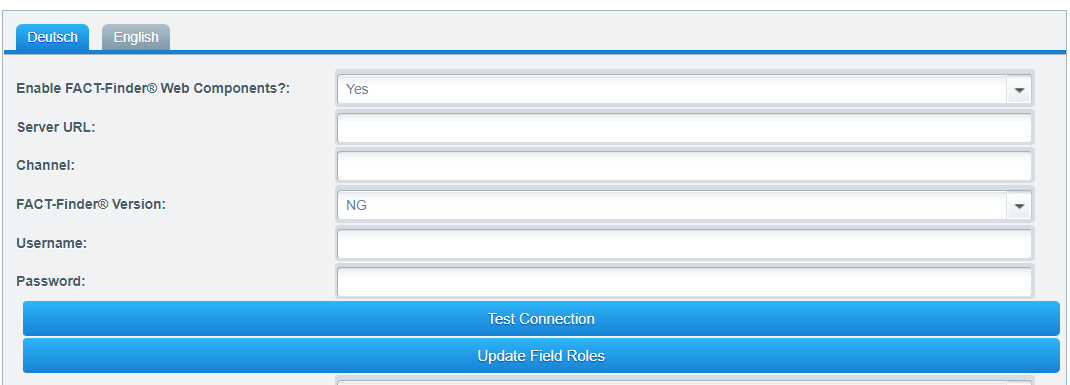
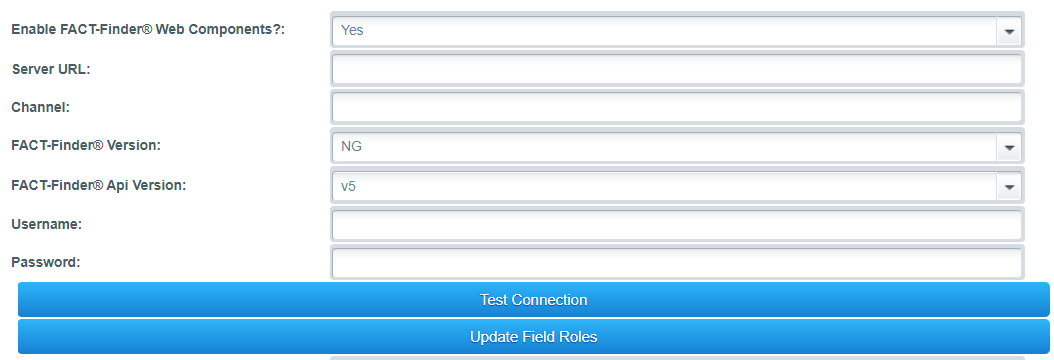
FFWEB-2628: api version switch

diff --git a/Components/Service/UpdateFieldRolesService.php b/Components/Service/UpdateFieldRolesService.php
@@ -58,7 +58,7 @@ class UpdateFieldRolesService
         $shops          = $shopRepository->findAll();
         foreach ($shops as $shop) {
             $scopedConfig = $this->configReader->getByPluginName($this->pluginName, $shop);
-            $endpoint     = $this->getEndpoint($this->configuration->getServerUrl(), $scopedConfig['ffChannel']);
+            $endpoint     = $this->getEndpoint($this->configuration->getServerUrl(), $scopedConfig['ffChannel'], $this->configuration->getApiVersion());
             $response     = $this->client->get(
                 "$endpoint?" . http_build_query(['query' => '*']),
                 [
@@ -77,9 +77,9 @@ class UpdateFieldRolesService
         }
     }
 
-    private function getEndpoint(string $url, string $channel): string
+    private function getEndpoint(string $url, string $channel, string $apiVersion): string
     {
-        return sprintf('%s/rest/v5/search/%s', rtrim($url, '/'), $channel);
+        return sprintf('%s/rest/%s/search/%s', rtrim($url, '/'), $apiVersion, $channel);
     }
 
     private function getPlugin(): Plugin

diff --git a/Components/Service/TestConnectionService.php b/Components/Service/TestConnectionService.php
@@ -24,9 +24,9 @@ class TestConnectionService
     /**
      * @throws RequestException
      */
-    public function execute(string $url, string $channel, Credentials $credentials): void
+    public function execute(string $url, string $channel, string $apiVersion, Credentials $credentials): void
     {
-        $endpoint = sprintf('%s/rest/v5/search/%s', rtrim($url, '/'), $channel);
+        $endpoint = sprintf('%s/rest/%s/search/%s', rtrim($url, '/'), $apiVersion, $channel);
         $this->client->get($endpoint . '?' . http_build_query(['query' => $this->apiQuery]), [
             'Accept'        => 'application/json',
             'Authorization' => $credentials->__toString(),

diff --git a/Controllers/Backend/Factfinder.php b/Controllers/Backend/Factfinder.php
@@ -52,7 +52,7 @@ class Shopware_Controllers_Backend_Factfinder extends \Enlight_Controller_Action
         $message        = $this->__('connectionEstablished');
 
         try {
-            $testConnection->execute($params->getServerUrl(), $params->getChannel(), $params->getCredentials());
+            $testConnection->execute($params->getServerUrl(), $params->getChannel(), $params->getApiVersion(), $params->getCredentials());
         } catch (RequestException $e) {
             $message = json_decode((string) $e->getBody(), true)['errorDescription'] ?? $e->getMessage();
         }

diff --git a/Components/Configuration.php b/Components/Configuration.php
@@ -36,6 +36,11 @@ class Configuration
         return $this->pluginConfig['ffChannel'] ?? '';
     }
 
+    public function getApiVersion(): string
+    {
+        return $this->pluginConfig['ffApiVersion'] ?? 'v5';
+    }
+
     public function getFieldRoles(): array
     {
         $default = '{"brand":"Brand","campaignProductNumber":"ProductNumber","deeplink":"Deeplink","description":"Description","displayProductNumber":"ProductNumber","ean":"EAN","imageUrl":"ImageUrl","masterArticleNumber":"Master","price":"Price","productName":"Name","trackingProductNumber":"ProductNumber"}';

diff --git a/Components/Service/PushImportService.php b/Components/Service/PushImportService.php
@@ -76,6 +76,10 @@ class PushImportService
 
     private function getBaseEndpoint(): string
     {
-        return $this->configuration->getServerUrl() . '/rest/v5/import/';
+        return sprintf(
+            '%s/rest/%s/import/',
+            $this->configuration->getServerUrl(),
+            $this->configuration->getApiVersion()
+        );
     }
 }

diff --git a/README.md b/README.md
@@ -59,6 +59,8 @@ Please remember that you have to clear the store cache in order the new applied 
 * Server URL - FACT-Finder® instance url   
   **Note:** Server URL should contain a used protocol: (e.g. `https://`) and should end with an endpoint ( `fact-finder` )
 * Channel - Channel you want to serve data from
+* API Version - Used FACT-Finder® api version   
+  **Note:** Module supports FACT-Finder® api version `v4` and `v5`. By selecting the wrong api version you may cause the Web Components to be unable to communicate with FACT-Finder®
 * Username
 * Password  
   **Note:** Module supports FACT-Finder® NG only.

diff --git a/CHANGELOG.md b/CHANGELOG.md
@@ -1,4 +1,8 @@
 # Changelog
+## Unreleased
+### Add
+- Add option to switch between Api Version
+
 ## [v3.1.3] - 26.10.2022
 ### Change
 - Upgrade Web Components version to v4.2.2
